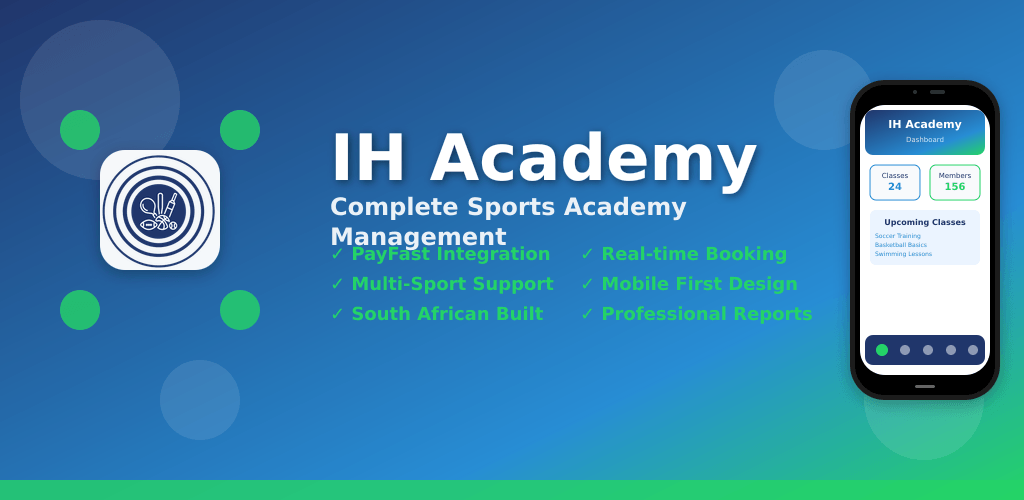
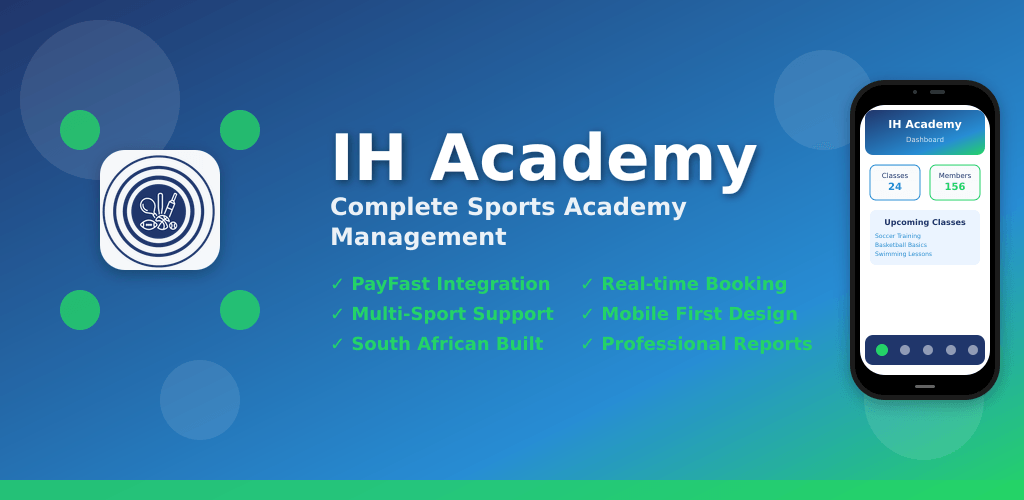
Adjust the location of the features list for better readability
Move the features list down by adjusting the translate Y value in the SVG.

Replit-Commit-Author: Agent
Replit-Commit-Session-Id: 34d7432b-c9a9-4643-b6fd-264e02eb9575
Replit-Commit-Screenshot-Url: https://storage.googleapis.com/screenshot-production-us-central1/b9bb3f3a-f8f1-4205-8bf9-e0d028063eee/f9dc67d0-3fc0-4f93-b476-c7f96765bc1a.jpg

Changed region(s): [[0.5625, 0.48, 0.7812, 0.72], [0.3438, 0.48, 0.5312, 0.72]]

diff --git a/mobile/app-store/feature-graphic-with-logo.js b/mobile/app-store/feature-graphic-with-logo.js
@@ -64,7 +64,7 @@ async function createFeatureGraphicWithLogo() {
         <text x="0" y="145" font-family="Arial, sans-serif" font-size="24" font-weight="600" fill="white" opacity="0.9">Management</text>
         
         <!-- Features -->
-        <g transform="translate(0, 160)">
+        <g transform="translate(0, 190)">
           <text x="0" y="0" font-family="Arial, sans-serif" font-size="18" font-weight="600" fill="#24D367">✓ PayFast Integration</text>
           <text x="0" y="30" font-family="Arial, sans-serif" font-size="18" font-weight="600" fill="#24D367">✓ Multi-Sport Support</text>
           <text x="0" y="60" font-family="Arial, sans-serif" font-size="18" font-weight="600" fill="#24D367">✓ South African Built</text>
